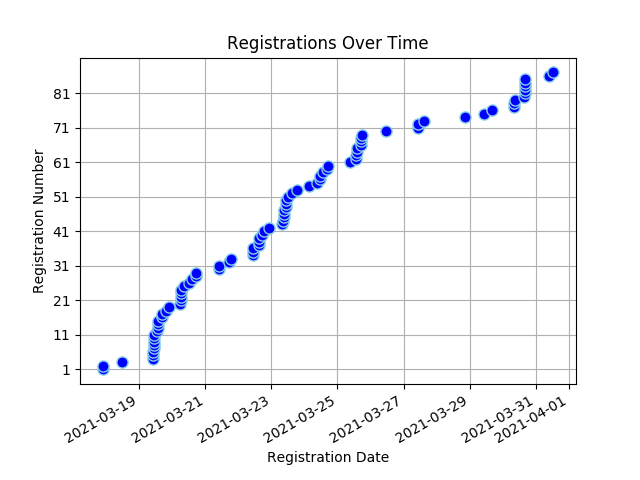
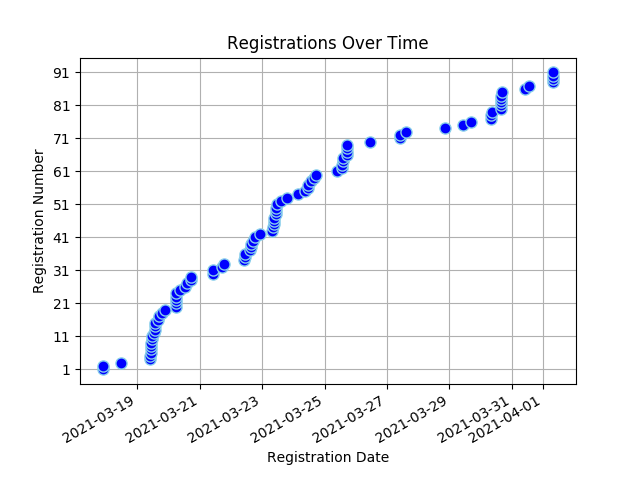
Registree stats backup on Thu 01 Apr 2021 08:11:58 SAST

diff --git a/content/registrees/_index.md b/content/registrees/_index.md
@@ -3,11 +3,11 @@ title: Registration Stats
 draft: false
 ---
 
-<ul><li><strong>Number of Registrees</strong>: 87</li>
+<ul><li><strong>Number of Registrees</strong>: 91</li>
 
-<li><strong>Number of Clubs</strong>: 39</li>
+<li><strong>Number of Clubs</strong>: 40</li>
 
-<li><strong>Clubs With Most Attendees</strong>: Cape Town, Sedgefield (6 registrees)</li>
+<li><strong>Clubs With Most Attendees</strong>: Cape Town, Sedgefield, Windhoek (6 registrees)</li>
 </ul><h2>Registrees</h2>
 
 <script type="text/javascript" src="https://ajax.googleapis.com/ajax/libs/jquery/3.4.1/jquery.min.js"></script>
@@ -33,6 +33,6 @@ draft: false
         </tr>
     </thead>
     <tbody>
-<tr><td>Natalie Abrahams</td><td>Cape Town</td><td>410W</td></tr><tr><td>Linda Baumgarten</td><td>Sea Point</td><td>410W</td></tr><tr><td>Valencia Beukes-Williams</td><td>Kuilsriver</td><td>410W</td></tr><tr><td>JOSE BRAGA BORGES</td><td>Malmesbury</td><td>410W</td></tr><tr><td>Herman Cadman</td><td>Stellenbosch</td><td>410W</td></tr><tr><td>Linda Ann Cannone</td><td>Fish Hoek</td><td>410W</td></tr><tr><td>Sue Charles</td><td>Tokai</td><td>410W</td></tr><tr><td>Perry Chetty</td><td>East Coast</td><td>410E</td></tr><tr><td>Esme Cornelius</td><td>Kuilsriver</td><td>410W</td></tr><tr><td>Sharon Cottle</td><td>Groote Schuur</td><td>410W</td></tr><tr><td>Peter Daniel</td><td>Gordons Bay</td><td>410W</td></tr><tr><td>Norma Daniel</td><td>Gordons Bay</td><td>410W</td></tr><tr><td>Engela de Kock</td><td>Swellendam</td><td>410W</td></tr><tr><td>Francois de Kock</td><td>Swellendam</td><td>410W</td></tr><tr><td>ANDRE DE VILLIERS</td><td>Malgas</td><td>410W</td></tr><tr><td>Desiree du Toit</td><td>Ramsgate</td><td>410E</td></tr><tr><td>Natalie Etridge</td><td>Sedgefield</td><td>410W</td></tr><tr><td>Roger Fahrbach</td><td>Windhoek</td><td>410W</td></tr><tr><td>Beate Fahrbach</td><td>Windhoek</td><td>410W</td></tr><tr><td>Charles Flanagan</td><td>Tokai</td><td>410W</td></tr><tr><td>Jules Flanagan</td><td>Tokai</td><td>410W</td></tr><tr><td>Viv Grater</td><td>Sedgefield</td><td>410W</td></tr><tr><td>Mattheus Groves</td><td>Sedgefield</td><td>410W</td></tr><tr><td>Dorothy Hess</td><td>Kuilsriver</td><td>410W</td></tr><tr><td>Wendy Higgins</td><td>Wilro Park</td><td>410E</td></tr><tr><td>Jacqui Hocking</td><td>Midrand</td><td>410E</td></tr><tr><td>Cliff Hocking</td><td>Midrand</td><td>410E</td></tr><tr><td>Liz Houston</td><td>Table View</td><td>410W</td></tr><tr><td>John Houston</td><td>Table View</td><td>410W</td></tr><tr><td>WOLSLEY Jacobson</td><td>Cape Town</td><td>410W</td></tr><tr><td>Jerome Kern</td><td>Groote Schuur</td><td>410W</td></tr><tr><td>Zwaai Kruger</td><td>Sedgefield</td><td>410W</td></tr><tr><td>Bevil Lakay</td><td>Mitchells Plain</td><td>410W</td></tr><tr><td>Paula Lang</td><td>Gordons Bay</td><td>410W</td></tr><tr><td>Jimmy Lang</td><td>Gordons Bay</td><td>410W</td></tr><tr><td>Zarina Luck</td><td>Newcastle</td><td>410E</td></tr><tr><td>Sharon Mangwende</td><td>Cape Town</td><td>410W</td></tr><tr><td>Beaulieu Mare</td><td>Benoni Lakes</td><td>410E</td></tr><tr><td>LANCE MAYTHAM</td><td>Swellendam</td><td>410W</td></tr><tr><td>ROSEMARIE MAYTHAM</td><td>Swellendam</td><td>410W</td></tr><tr><td>David Mccullough</td><td>Pretoria South</td><td>410E</td></tr><tr><td>Alec McKerrow</td><td>Port Alfred</td><td>410E</td></tr><tr><td>Mark Meltzer</td><td>The Wilds</td><td>410E</td></tr><tr><td>Denis Meyer</td><td>Port Shepstone</td><td>410E</td></tr><tr><td>BERNICE MILLS</td><td>Centurion</td><td>410E</td></tr><tr><td>Patrick Mills</td><td>Centurion</td><td>410E</td></tr><tr><td>Cherie Milosevich</td><td>Milnerton</td><td>410W</td></tr><tr><td>Virginia Mkhize</td><td>Cape Town</td><td>410W</td></tr><tr><td>Bernadine Moses</td><td>Cape Town</td><td>410W</td></tr><tr><td>Pieter Nel</td><td>George</td><td>410W</td></tr><tr><td>Tillie Nel</td><td>Eden</td><td>410W</td></tr><tr><td>Mike Newlands</td><td>Port Alfred</td><td>410E</td></tr><tr><td>Mike Newlands</td><td>Port Alfred</td><td>410E</td></tr><tr><td>Debra Olivier</td><td>Sedgefield</td><td>410W</td></tr><tr><td>BRIAN PORTEOUS</td><td>Hibberdene</td><td>410E</td></tr><tr><td>Irene Rugheimer</td><td>Bedfordview</td><td>410E</td></tr><tr><td>Ingrid Russell</td><td>Fish Hoek</td><td>410W</td></tr><tr><td>Francis Searle</td><td>Kouga</td><td>410E</td></tr><tr><td>Gloria Searle</td><td>Kouga</td><td>410E</td></tr><tr><td>Ami Sell</td><td>Windhoek</td><td>410W</td></tr><tr><td>Sue Smit</td><td>Centurion</td><td>410E</td></tr><tr><td>Herman Smit</td><td>Swellendam</td><td>410W</td></tr><tr><td>Jeff Smith</td><td>Port Shepstone</td><td>410E</td></tr><tr><td>LYN SNYMAN</td><td>Deep South</td><td>410W</td></tr><tr><td>Diana Sochen</td><td>Sea Point</td><td>410W</td></tr><tr><td>Max Stander</td><td>Port Alfred</td><td>410E</td></tr><tr><td>RORY stier</td><td>Deep South</td><td>410W</td></tr><tr><td>Patrick Strauss</td><td>Kuilsriver</td><td>410W</td></tr><tr><td>Lauryn Talbot</td><td>Benoni Lakes</td><td>410E</td></tr><tr><td>Diane Townsend</td><td>Benoni Lakes</td><td>410E</td></tr><tr><td>Alistair Tuckett</td><td>Roodepoort Clearwater Cyber</td><td>410E</td></tr><tr><td>Carl van Blerk</td><td>Eden</td><td>410W</td></tr><tr><td>HILARY LISE VAN BREDA</td><td>Cape Town</td><td>410W</td></tr><tr><td>Marina Van de Merwe</td><td>Malmesbury</td><td>410W</td></tr><tr><td>Neville Van Rensburg</td><td>Moorreesburg</td><td>410W</td></tr><tr><td>Johan van Rensburg</td><td>Windhoek</td><td>410W</td></tr><tr><td>Anne van Rensburg</td><td>Windhoek</td><td>410W</td></tr><tr><td>Jeannie van Wulven</td><td>Tygerberg Hills</td><td>410W</td></tr><tr><td>Alan van Wulven</td><td>Tygerberg Hills</td><td>410W</td></tr><tr><td>Deon van Wulven</td><td>Tygerberg Hills</td><td>410W</td></tr><tr><td>Kim van Wyk</td><td>North Durban</td><td>410E</td></tr><tr><td>Edith Van Wyk-Nelson</td><td>Kuilsriver</td><td>410W</td></tr><tr><td>Brian von der Decken</td><td>King William's Town</td><td>410E</td></tr><tr><td>Rochelle Vorster</td><td>Sedgefield</td><td>410W</td></tr><tr><td>Allan Watson</td><td>Sea Point</td><td>410W</td></tr><tr><td>Neville Williamson</td><td>Port Alfred</td><td>410E</td></tr><tr><td>Judy Young</td><td>Durbanville</td><td>410W</td></tr>
+<tr><td>Natalie Abrahams</td><td>Cape Town</td><td>410W</td></tr><tr><td>Linda Baumgarten</td><td>Sea Point</td><td>410W</td></tr><tr><td>Valencia Beukes-Williams</td><td>Kuilsriver</td><td>410W</td></tr><tr><td>JOSE BRAGA BORGES</td><td>Malmesbury</td><td>410W</td></tr><tr><td>Herman Cadman</td><td>Stellenbosch</td><td>410W</td></tr><tr><td>Linda Ann Cannone</td><td>Fish Hoek</td><td>410W</td></tr><tr><td>Sue Charles</td><td>Tokai</td><td>410W</td></tr><tr><td>Perry Chetty</td><td>East Coast</td><td>410E</td></tr><tr><td>Esme Cornelius</td><td>Kuilsriver</td><td>410W</td></tr><tr><td>Sharon Cottle</td><td>Groote Schuur</td><td>410W</td></tr><tr><td>Peter Daniel</td><td>Gordons Bay</td><td>410W</td></tr><tr><td>Norma Daniel</td><td>Gordons Bay</td><td>410W</td></tr><tr><td>Engela de Kock</td><td>Swellendam</td><td>410W</td></tr><tr><td>Francois de Kock</td><td>Swellendam</td><td>410W</td></tr><tr><td>ANDRE DE VILLIERS</td><td>Malgas</td><td>410W</td></tr><tr><td>Desiree du Toit</td><td>Ramsgate</td><td>410E</td></tr><tr><td>Natalie Etridge</td><td>Sedgefield</td><td>410W</td></tr><tr><td>Roger Fahrbach</td><td>Windhoek</td><td>410W</td></tr><tr><td>Beate Fahrbach</td><td>Windhoek</td><td>410W</td></tr><tr><td>Charles Flanagan</td><td>Tokai</td><td>410W</td></tr><tr><td>Jules Flanagan</td><td>Tokai</td><td>410W</td></tr><tr><td>Viv Grater</td><td>Sedgefield</td><td>410W</td></tr><tr><td>Mattheus Groves</td><td>Sedgefield</td><td>410W</td></tr><tr><td>Barbara Haywood</td><td>Eden</td><td>410W</td></tr><tr><td>Dorothy Hess</td><td>Kuilsriver</td><td>410W</td></tr><tr><td>Wendy Higgins</td><td>Wilro Park</td><td>410E</td></tr><tr><td>Jacqui Hocking</td><td>Midrand</td><td>410E</td></tr><tr><td>Cliff Hocking</td><td>Midrand</td><td>410E</td></tr><tr><td>Liz Houston</td><td>Table View</td><td>410W</td></tr><tr><td>John Houston</td><td>Table View</td><td>410W</td></tr><tr><td>WOLSLEY Jacobson</td><td>Cape Town</td><td>410W</td></tr><tr><td>Grant Jonathan</td><td>Gordons Bay</td><td>410W</td></tr><tr><td>Jerome Kern</td><td>Groote Schuur</td><td>410W</td></tr><tr><td>Zwaai Kruger</td><td>Sedgefield</td><td>410W</td></tr><tr><td>Bevil Lakay</td><td>Mitchells Plain</td><td>410W</td></tr><tr><td>Paula Lang</td><td>Gordons Bay</td><td>410W</td></tr><tr><td>Jimmy Lang</td><td>Gordons Bay</td><td>410W</td></tr><tr><td>Zarina Luck</td><td>Newcastle</td><td>410E</td></tr><tr><td>Sharon Mangwende</td><td>Cape Town</td><td>410W</td></tr><tr><td>Beaulieu Mare</td><td>Benoni Lakes</td><td>410E</td></tr><tr><td>LANCE MAYTHAM</td><td>Swellendam</td><td>410W</td></tr><tr><td>ROSEMARIE MAYTHAM</td><td>Swellendam</td><td>410W</td></tr><tr><td>David Mccullough</td><td>Pretoria South</td><td>410E</td></tr><tr><td>Alec McKerrow</td><td>Port Alfred</td><td>410E</td></tr><tr><td>Mark Meltzer</td><td>The Wilds</td><td>410E</td></tr><tr><td>Denis Meyer</td><td>Port Shepstone</td><td>410E</td></tr><tr><td>BERNICE MILLS</td><td>Centurion</td><td>410E</td></tr><tr><td>Patrick Mills</td><td>Centurion</td><td>410E</td></tr><tr><td>Cherie Milosevich</td><td>Milnerton</td><td>410W</td></tr><tr><td>Virginia Mkhize</td><td>Cape Town</td><td>410W</td></tr><tr><td>Bernadine Moses</td><td>Cape Town</td><td>410W</td></tr><tr><td>Pieter Nel</td><td>George</td><td>410W</td></tr><tr><td>Tillie Nel</td><td>Eden</td><td>410W</td></tr><tr><td>Mike Newlands</td><td>Port Alfred</td><td>410E</td></tr><tr><td>Mike Newlands</td><td>Port Alfred</td><td>410E</td></tr><tr><td>Debra Olivier</td><td>Sedgefield</td><td>410W</td></tr><tr><td>BRIAN PORTEOUS</td><td>Hibberdene</td><td>410E</td></tr><tr><td>Irene Rugheimer</td><td>Bedfordview</td><td>410E</td></tr><tr><td>Ingrid Russell</td><td>Fish Hoek</td><td>410W</td></tr><tr><td>Sharon Sampie</td><td>Bergvliet</td><td>410W</td></tr><tr><td>Frank Schatz</td><td>Windhoek</td><td>410W</td></tr><tr><td>Francis Searle</td><td>Kouga</td><td>410E</td></tr><tr><td>Gloria Searle</td><td>Kouga</td><td>410E</td></tr><tr><td>Ami Sell</td><td>Windhoek</td><td>410W</td></tr><tr><td>Sue Smit</td><td>Centurion</td><td>410E</td></tr><tr><td>Herman Smit</td><td>Swellendam</td><td>410W</td></tr><tr><td>Jeff Smith</td><td>Port Shepstone</td><td>410E</td></tr><tr><td>LYN SNYMAN</td><td>Deep South</td><td>410W</td></tr><tr><td>Diana Sochen</td><td>Sea Point</td><td>410W</td></tr><tr><td>Max Stander</td><td>Port Alfred</td><td>410E</td></tr><tr><td>RORY stier</td><td>Deep South</td><td>410W</td></tr><tr><td>Patrick Strauss</td><td>Kuilsriver</td><td>410W</td></tr><tr><td>Lauryn Talbot</td><td>Benoni Lakes</td><td>410E</td></tr><tr><td>Diane Townsend</td><td>Benoni Lakes</td><td>410E</td></tr><tr><td>Alistair Tuckett</td><td>Roodepoort Clearwater Cyber</td><td>410E</td></tr><tr><td>Carl van Blerk</td><td>Eden</td><td>410W</td></tr><tr><td>HILARY LISE VAN BREDA</td><td>Cape Town</td><td>410W</td></tr><tr><td>Marina Van de Merwe</td><td>Malmesbury</td><td>410W</td></tr><tr><td>Neville Van Rensburg</td><td>Moorreesburg</td><td>410W</td></tr><tr><td>Johan van Rensburg</td><td>Windhoek</td><td>410W</td></tr><tr><td>Anne van Rensburg</td><td>Windhoek</td><td>410W</td></tr><tr><td>Jeannie van Wulven</td><td>Tygerberg Hills</td><td>410W</td></tr><tr><td>Alan van Wulven</td><td>Tygerberg Hills</td><td>410W</td></tr><tr><td>Deon van Wulven</td><td>Tygerberg Hills</td><td>410W</td></tr><tr><td>Kim van Wyk</td><td>North Durban</td><td>410E</td></tr><tr><td>Edith Van Wyk-Nelson</td><td>Kuilsriver</td><td>410W</td></tr><tr><td>Brian von der Decken</td><td>King William's Town</td><td>410E</td></tr><tr><td>Rochelle Vorster</td><td>Sedgefield</td><td>410W</td></tr><tr><td>Allan Watson</td><td>Sea Point</td><td>410W</td></tr><tr><td>Neville Williamson</td><td>Port Alfred</td><td>410E</td></tr><tr><td>Judy Young</td><td>Durbanville</td><td>410W</td></tr>
 </tbody>
 </table>

diff --git a/content/full_stats/_index.md b/content/full_stats/_index.md
@@ -16,17 +16,17 @@ draft: false
 </head>
 <body>
 <h1 style="color: #000000;">Full Registration Stats</h1>
-<ul><li><strong>Number of Registrees</strong>: 87</li>
-<li><strong>Number of Clubs</strong>: 39</li>
-<li><strong>Clubs With Most Attendees</strong>: Cape Town, Sedgefield (6 registrees)</li>
+<ul><li><strong>Number of Registrees</strong>: 91</li>
+<li><strong>Number of Clubs</strong>: 40</li>
+<li><strong>Clubs With Most Attendees</strong>: Cape Town, Sedgefield, Windhoek (6 registrees)</li>
 
-<li><strong>Number of District 410W Convention Attendees</strong>: 59</li>
-<li><strong>Number of District 410W Convention Voters</strong>: 29</li>
+<li><strong>Number of District 410W Convention Attendees</strong>: 63</li>
+<li><strong>Number of District 410W Convention Voters</strong>: 32</li>
 <li><strong>Number of District 410E Convention Attendees</strong>: 27</li>
 <li><strong>Number of District 410E Convention Voters</strong>: 13</li>
 
-<li><strong>Number of MD410 Convention Attendees</strong>: 74</li>
-<li><strong>Number of MD410 Convention Voters</strong>: 38</li>
+<li><strong>Number of MD410 Convention Attendees</strong>: 78</li>
+<li><strong>Number of MD410 Convention Voters</strong>: 41</li>
 
 </ul>
 <h2>Registrees</h2>
@@ -314,6 +314,17 @@ draft: false
 </tr>
 
     
+<td>93</td>
+<td>Barbara Haywood</td>
+<td>Eden</td>
+<td>410W</td>
+<td>No</td>
+<td style="background-color: lightgreen">Yes</td>
+<td style="background-color: lightgreen">Yes</td>
+<td>No</td>
+</tr>
+
+    
 <td>21</td>
 <td>Dorothy Hess</td>
 <td>Kuilsriver</td>
@@ -388,6 +399,17 @@ draft: false
 <td style="background-color: lightgreen">Yes</td>
 <td style="background-color: lightgreen">Yes</td>
 <td>No</td>
+</tr>
+
+    
+<td>96</td>
+<td>Grant Jonathan</td>
+<td>Gordons Bay</td>
+<td>410W</td>
+<td style="background-color: lightgreen">Yes</td>
+<td style="background-color: lightgreen">Yes</td>
+<td style="background-color: lightgreen">Yes</td>
+<td style="background-color: lightgreen">Yes</td>
 </tr>
 
     
@@ -680,6 +702,28 @@ draft: false
 <td>37</td>
 <td>Ingrid Russell</td>
 <td>Fish Hoek</td>
+<td>410W</td>
+<td style="background-color: lightgreen">Yes</td>
+<td style="background-color: lightgreen">Yes</td>
+<td style="background-color: lightgreen">Yes</td>
+<td>No</td>
+</tr>
+
+    
+<td>95</td>
+<td>Sharon Sampie</td>
+<td>Bergvliet</td>
+<td>410W</td>
+<td style="background-color: lightgreen">Yes</td>
+<td style="background-color: lightgreen">Yes</td>
+<td style="background-color: lightgreen">Yes</td>
+<td>No</td>
+</tr>
+
+    
+<td>94</td>
+<td>Frank Schatz</td>
+<td>Windhoek</td>
 <td>410W</td>
 <td style="background-color: lightgreen">Yes</td>
 <td style="background-color: lightgreen">Yes</td>
